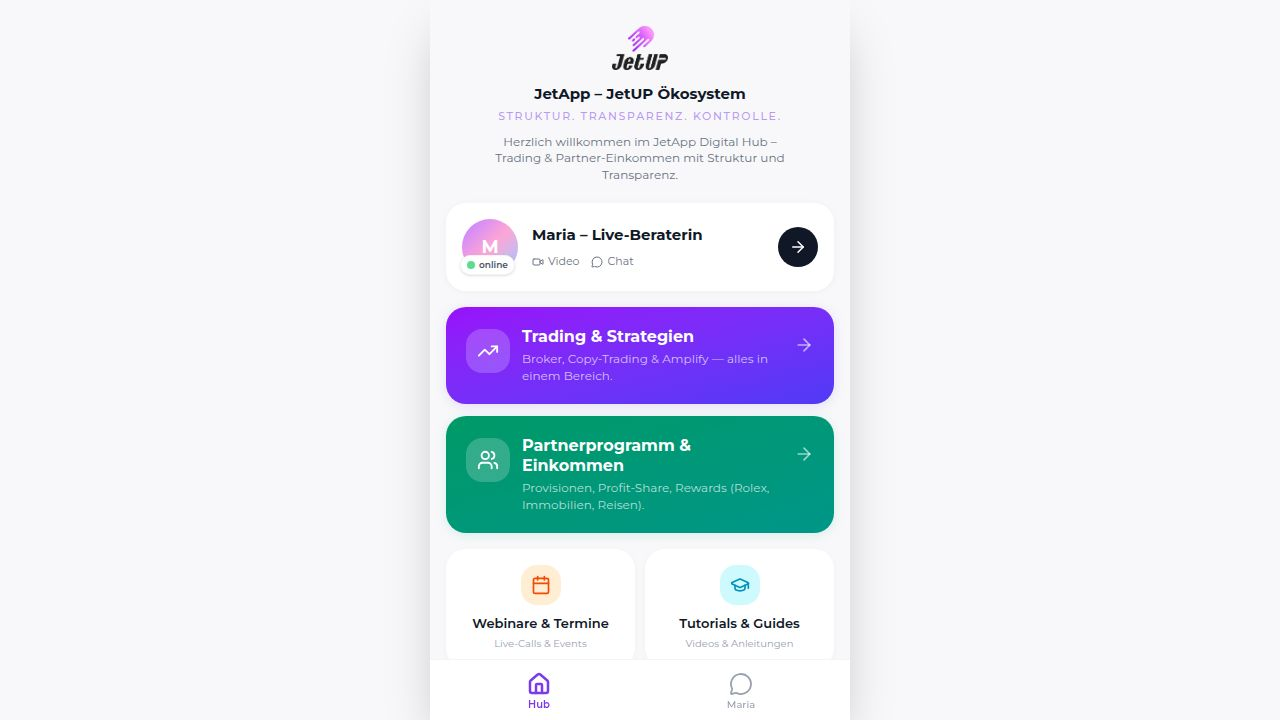
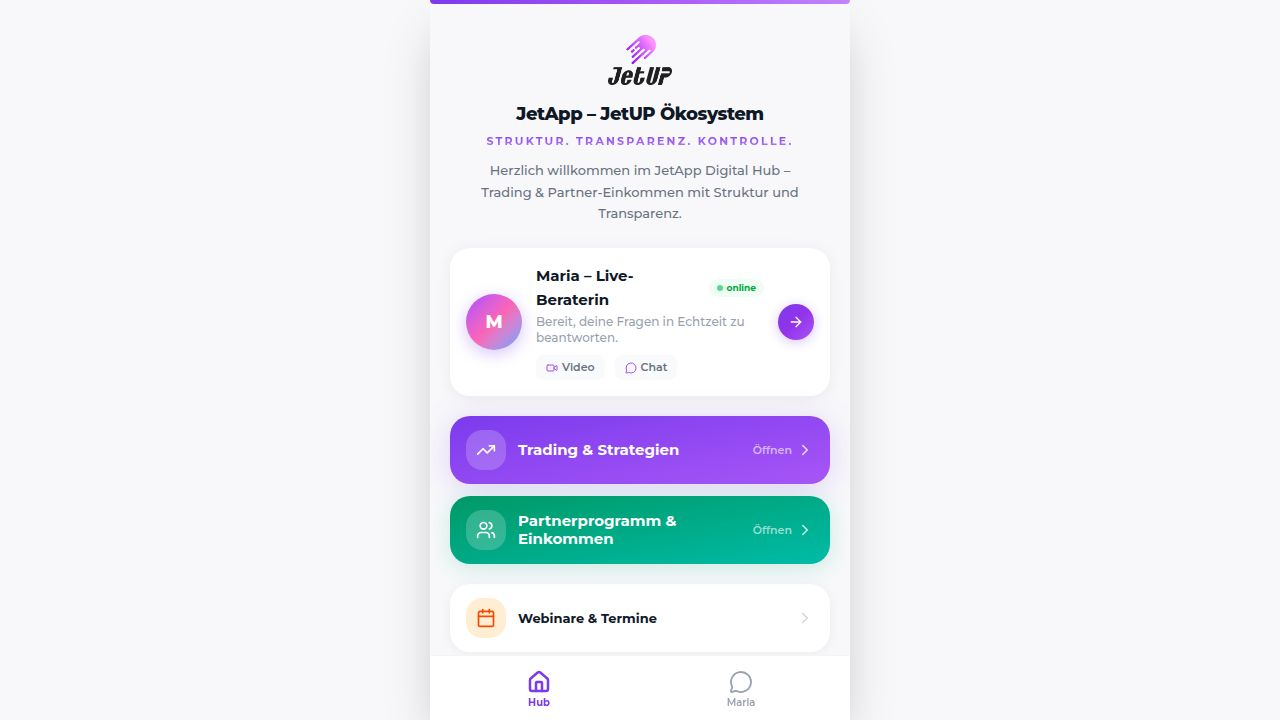
Adjust homepage card sizes and remove redundant descriptions
Refactor HomePage component to decrease padding and remove descriptive paragraphs from 'Trading & Strategien' and 'Partnerprogramm & Einkommen' cards.

Replit-Commit-Author: Agent
Replit-Commit-Session-Id: 9c553e04-25bf-4d10-a8c4-2114701c4a43
Replit-Commit-Checkpoint-Type: intermediate_checkpoint
Replit-Commit-Event-Id: ea8fd428-879c-4fbe-8150-b905b93e50f1
Replit-Commit-Screenshot-Url: https://storage.googleapis.com/screenshot-production-us-central1/187720fa-c7d1-4b80-a0d5-2edf95695724/9c553e04-25bf-4d10-a8c4-2114701c4a43/tC8hAGh
Replit-Helium-Checkpoint-Created: true

Changed region(s): [[0.3438, 0.0, 0.6562, 1.0], [0.5938, 0.3056, 0.6562, 0.3667]]

diff --git a/client/src/pages/HomePage.tsx b/client/src/pages/HomePage.tsx
@@ -135,21 +135,16 @@ const HomePage: React.FC = () => {
           >
             <button
               onClick={goToTrading}
-              className="w-full rounded-2xl p-5 text-left active:scale-[0.98] transition-transform bg-gradient-to-br from-[#7C3AED] to-[#A855F7] card-glow-strong"
+              className="w-full rounded-2xl px-4 py-3.5 text-left active:scale-[0.98] transition-transform bg-gradient-to-br from-[#7C3AED] to-[#A855F7] card-glow-strong"
               data-testid="card-trading-hub"
             >
               <div className="flex items-center gap-3">
-                <div className="w-11 h-11 rounded-xl bg-white/20 flex items-center justify-center flex-shrink-0 backdrop-blur-sm">
-                  <TrendingUp size={22} className="text-white" />
+                <div className="w-10 h-10 rounded-xl bg-white/20 flex items-center justify-center flex-shrink-0 backdrop-blur-sm">
+                  <TrendingUp size={20} className="text-white" />
                 </div>
-                <div className="flex-1">
-                  <h3 className="text-[16px] font-bold text-white leading-tight">
-                    Trading & Strategien
-                  </h3>
-                  <p className="text-[12px] text-white/75 mt-1 leading-snug font-medium">
-                    Broker, Copy-Trading & Amplify — alles in einem Bereich.
-                  </p>
-                </div>
+                <h3 className="text-[15px] font-bold text-white leading-tight flex-1">
+                  Trading & Strategien
+                </h3>
                 <div className="flex items-center gap-1 flex-shrink-0">
                   <span className="text-[11px] font-semibold text-white/60">Öffnen</span>
                   <ChevronRight size={18} className="text-white/80" />
@@ -159,21 +154,16 @@ const HomePage: React.FC = () => {
 
             <button
               onClick={goToPartner}
-              className="w-full rounded-2xl p-5 text-left active:scale-[0.98] transition-transform bg-gradient-to-br from-emerald-600 to-teal-500 shadow-[0_4px_24px_rgba(16,185,129,0.2)]"
+              className="w-full rounded-2xl px-4 py-3.5 text-left active:scale-[0.98] transition-transform bg-gradient-to-br from-emerald-600 to-teal-500 shadow-[0_4px_24px_rgba(16,185,129,0.2)]"
               data-testid="card-partner-hub"
             >
               <div className="flex items-center gap-3">
-                <div className="w-11 h-11 rounded-xl bg-white/20 flex items-center justify-center flex-shrink-0 backdrop-blur-sm">
-                  <Users size={22} className="text-white" />
+                <div className="w-10 h-10 rounded-xl bg-white/20 flex items-center justify-center flex-shrink-0 backdrop-blur-sm">
+                  <Users size={20} className="text-white" />
                 </div>
-                <div className="flex-1">
-                  <h3 className="text-[16px] font-bold text-white leading-tight">
-                    Partnerprogramm & Einkommen
-                  </h3>
-                  <p className="text-[12px] text-white/75 mt-1 leading-snug font-medium">
-                    Provisionen, Profit-Share, Rewards (Rolex, Immobilien, Reisen).
-                  </p>
-                </div>
+                <h3 className="text-[15px] font-bold text-white leading-tight flex-1">
+                  Partnerprogramm & Einkommen
+                </h3>
                 <div className="flex items-center gap-1 flex-shrink-0">
                   <span className="text-[11px] font-semibold text-white/60">Öffnen</span>
                   <ChevronRight size={18} className="text-white/80" />
@@ -196,10 +186,7 @@ const HomePage: React.FC = () => {
               <div className="w-10 h-10 rounded-xl bg-orange-100 flex items-center justify-center flex-shrink-0">
                 <Calendar size={20} className="text-orange-600" />
               </div>
-              <div className="flex-1 min-w-0">
-                <span className="text-[13px] font-bold text-gray-900 block">Webinare & Termine</span>
-                <span className="text-[11px] text-gray-400 font-medium">Live-Calls & Events</span>
-              </div>
+              <span className="text-[13px] font-bold text-gray-900 flex-1 min-w-0">Webinare & Termine</span>
               <ChevronRight size={18} className="text-gray-300 flex-shrink-0" />
             </button>
 
@@ -211,10 +198,7 @@ const HomePage: React.FC = () => {
               <div className="w-10 h-10 rounded-xl bg-cyan-100 flex items-center justify-center flex-shrink-0">
                 <GraduationCap size={20} className="text-cyan-600" />
               </div>
-              <div className="flex-1 min-w-0">
-                <span className="text-[13px] font-bold text-gray-900 block">Tutorials & Guides</span>
-                <span className="text-[11px] text-gray-400 font-medium">Videos & Anleitungen</span>
-              </div>
+              <span className="text-[13px] font-bold text-gray-900 flex-1 min-w-0">Tutorials & Guides</span>
               <ChevronRight size={18} className="text-gray-300 flex-shrink-0" />
             </button>
           </motion.div>
